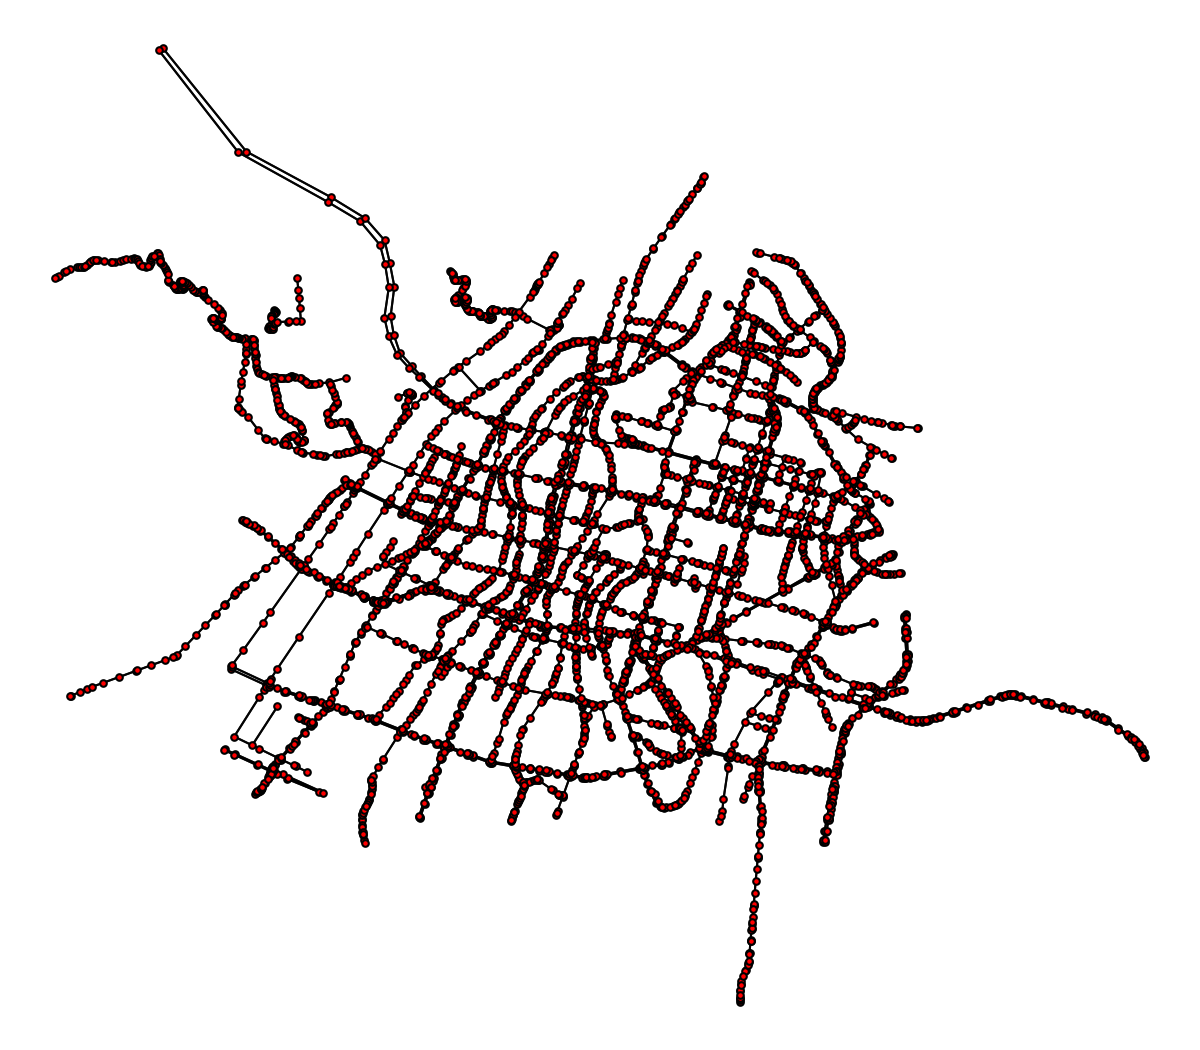
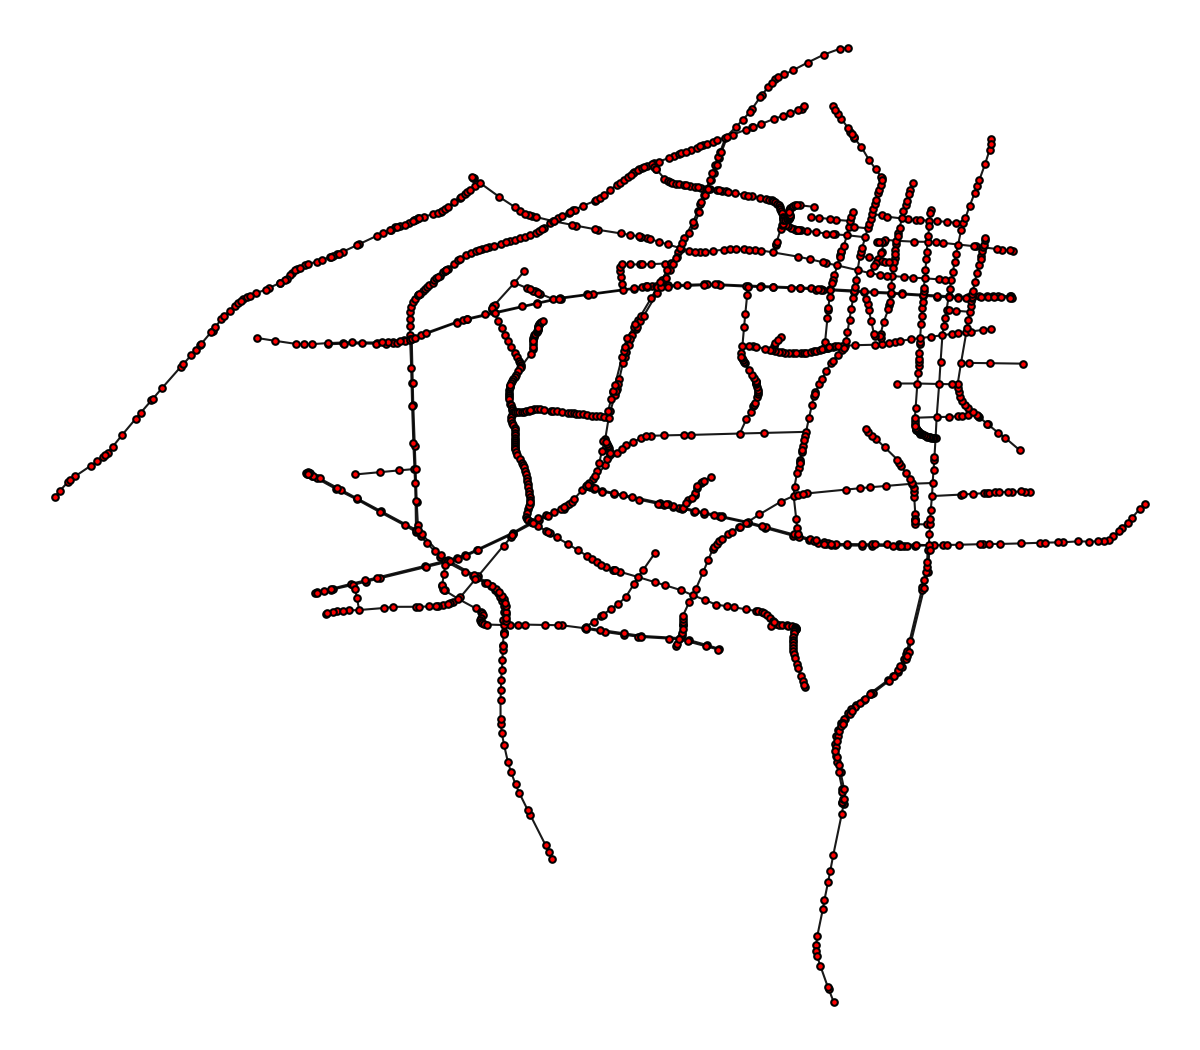
update: in plot, implement CC to remove disconnected subgraphs

diff --git a/plot.py b/plot.py
@@ -6,8 +6,21 @@ import matplotlib.pyplot as plt
 
 
 G = pickle.load(open("GG.pickle", "rb"))
+print("before processing")
 print(G.number_of_nodes())
 print(G.number_of_edges())
+
+
+G = G.to_undirected()
+CG = nx.connected_components(G)
+print()
+print("connected components")
+for c in sorted(CG, key=len, reverse=True):
+  print(len(c))
+
+largest_cc = max(nx.connected_components(G), key=len)
+G = G.subgraph(largest_cc)
+
 
 pos = {}
 for n, data in G.nodes(data=True):

diff --git a/parser.py b/parser.py
@@ -5,7 +5,8 @@ import networkx as nx
 from lxml import etree
 from copy import deepcopy
 
-filename = 'hiroshima.osm'
+# filename = 'hiroshima.osm'
+filename = "small_toyota.osm"
 tree = etree.parse(filename)
 G = nx.DiGraph()
 
